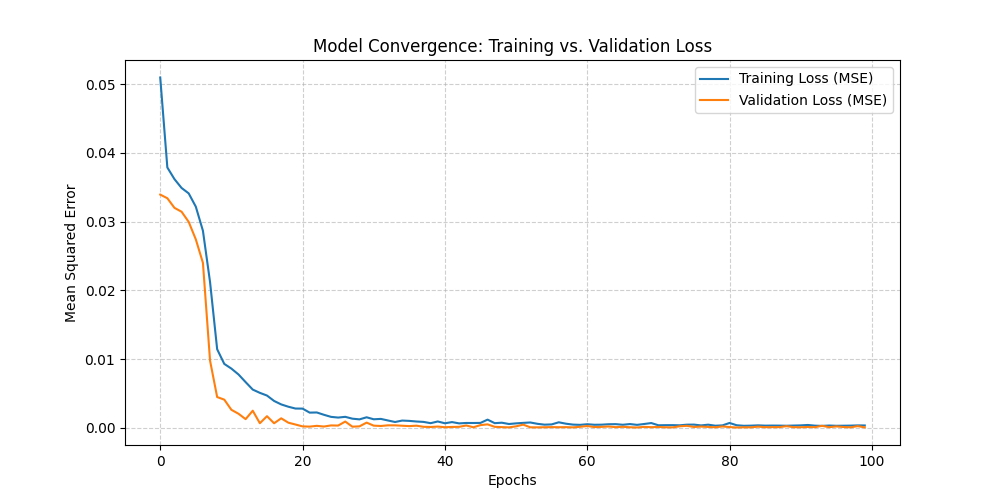
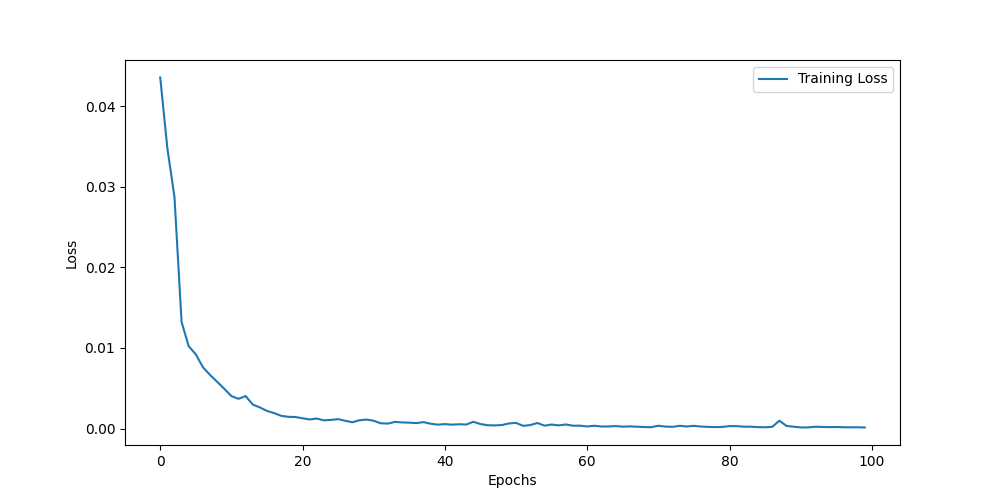
cleaned lstm code

diff --git a/src/model_lstm.py b/src/model_lstm.py
@@ -28,6 +28,7 @@ scaler = MinMaxScaler(feature_range=(0, 1))
 X_scaled = scaler.fit_transform(X_raw).flatten()
 
 def create_sequences(data, window):
+    ''' Creates sequences of data with specified window size for LSTM training.'''
     X, Y = [], []
     for i in range(len(data) - window):
         X.append(data[i:i + window])
@@ -47,22 +48,23 @@ def build_lstm(window_size, units):
 best_score = float("inf")
 best_params = None
 best_model = None
+best_history = None
+best_X = None
+best_Y = None
 
+
+# Grid search over hyperparameters
 for window, units, batch in product(WINDOW_SIZES, LSTM_UNITS, BATCH_SIZES):
     print(f"\nTesting: window={window}, units={units}, batch={batch}")
 
     X, Y = create_sequences(X_scaled, window)
     X = X.reshape(X.shape[0], X.shape[1], 1)
 
-    split = int(len(X) * 0.8)
-    X_train, X_val = X[:split], X[split:]
-    Y_train, Y_val = Y[:split], Y[split:]
-
     model = build_lstm(window, units)
-    history = model.fit(X_train, Y_train, epochs=EPOCHS, batch_size=batch, verbose=0)
+    history = model.fit(X, Y, epochs=EPOCHS, batch_size=batch, verbose=0)
 
-    preds = model.predict(X_val, verbose=0)
-    mse = mean_squared_error(Y_val, preds)
+    preds = model.predict(X, verbose=0)
+    mse = mean_squared_error(Y, preds)
 
     print("MSE:", mse)
 
@@ -71,12 +73,15 @@ for window, units, batch in product(WINDOW_SIZES, LSTM_UNITS, BATCH_SIZES):
         best_params = (window, units, batch)
         best_model = model
         best_history = history
+        best_X = X
+        best_Y = Y
 
 print("\nBEST PARAMS:", best_params)
 print("BEST MSE:", best_score)
 
 best_model.save("models/best_lstm_model.keras")
 
+# recursive forecast
 WINDOW_SIZE = best_params[0]
 
 last_window = X_scaled[-WINDOW_SIZE:].reshape(1, WINDOW_SIZE, 1)
@@ -84,47 +89,51 @@ recursive_preds_scaled = []
 
 current_batch = last_window
 for _ in range(PREDICTIONS):
-    pred = best_model.predict(current_batch, verbose=1)
+    pred = best_model.predict(current_batch, verbose=0)
     recursive_preds_scaled.append(pred[0, 0])
-    current_batch = np.append(current_batch[:, 1:, :], pred.reshape(1,1,1), axis=1)
+    current_batch = np.append(current_batch[:, 1:, :], pred.reshape(1, 1, 1), axis=1)
 
-recursive_preds = scaler.inverse_transform(np.array(recursive_preds_scaled).reshape(-1, 1))
+recursive_preds = scaler.inverse_transform(
+    np.array(recursive_preds_scaled).reshape(-1, 1)
+)
 
+# loss plot 
 plt.figure(figsize=(10, 5))
-plt.plot(best_history.history['loss'], label='Training Loss')
-plt.xlabel('Epochs')
-plt.ylabel('Loss')
+plt.plot(best_history.history["loss"], label="Training Loss")
+plt.xlabel("Epochs")
+plt.ylabel("Loss")
 plt.legend()
-plt.savefig("output/loss_lstm.png")
+plt.savefig("output/lstm_loss.png")
 plt.show()
 
-# PREDICTIONS VS ACTUAL (train + validation)
-split = int(len(X) * (1 - VAL_SPLIT))
-train_preds = scaler.inverse_transform(model.predict(X[:split], verbose=VERBOSE))
-val_preds = scaler.inverse_transform(model.predict(X[split:], verbose=VERBOSE))
-actual = scaler.inverse_transform(Y.reshape(-1, 1))
+# fit on full data
+preds_all = scaler.inverse_transform(
+    best_model.predict(best_X, verbose=0).reshape(-1, 1)
+)
+actual = scaler.inverse_transform(best_Y.reshape(-1, 1))
 
 plt.figure(figsize=(12, 5))
 plt.plot(actual, label="Actual", alpha=0.7)
-plt.plot(range(split), train_preds, label="Train pred", alpha=0.7)
-plt.plot(range(split, split + len(val_preds)), val_preds, label="Validation pred", alpha=0.8)
-plt.axvline(split, color="grey", linestyle="--", linewidth=1)
-plt.title("LSTM Predictions vs Actual")
+plt.plot(preds_all, label="Predictions", alpha=0.7)
+plt.title("LSTM Fit on Training Data")
 plt.xlabel("Index")
-plt.ylabel("Measurement Value")
+plt.ylabel("Value")
 plt.legend()
-plt.savefig("output/pred_vs_actual_lstm.png")
+plt.savefig("output/lstm_pred_vs_actual.png")
 plt.show()
 
-# FORECAST
+# forecast plot 
 plt.figure(figsize=(12, 6))
 plt.plot(range(len(X_raw)), X_raw, label="History")
-plt.plot(range(len(X_raw), len(X_raw)+PREDICTIONS), recursive_preds, label="Forecast")
-plt.xlabel('Time Steps')
-plt.ylabel('Value')
+plt.plot(
+    range(len(X_raw), len(X_raw) + PREDICTIONS),
+    recursive_preds,
+    label="Forecast"
+)
+plt.xlabel("Time Steps")
+plt.ylabel("Value")
 plt.legend()
-plt.savefig("output/forecast_results_lstm.png")
+plt.savefig("output/lstm_forecast_results.png")
 plt.show()
 
-final_loss = best_history.history['loss'][-1]
-print("Final Training Loss:", final_loss)
+print("Final Training Loss:", best_history.history["loss"][-1])